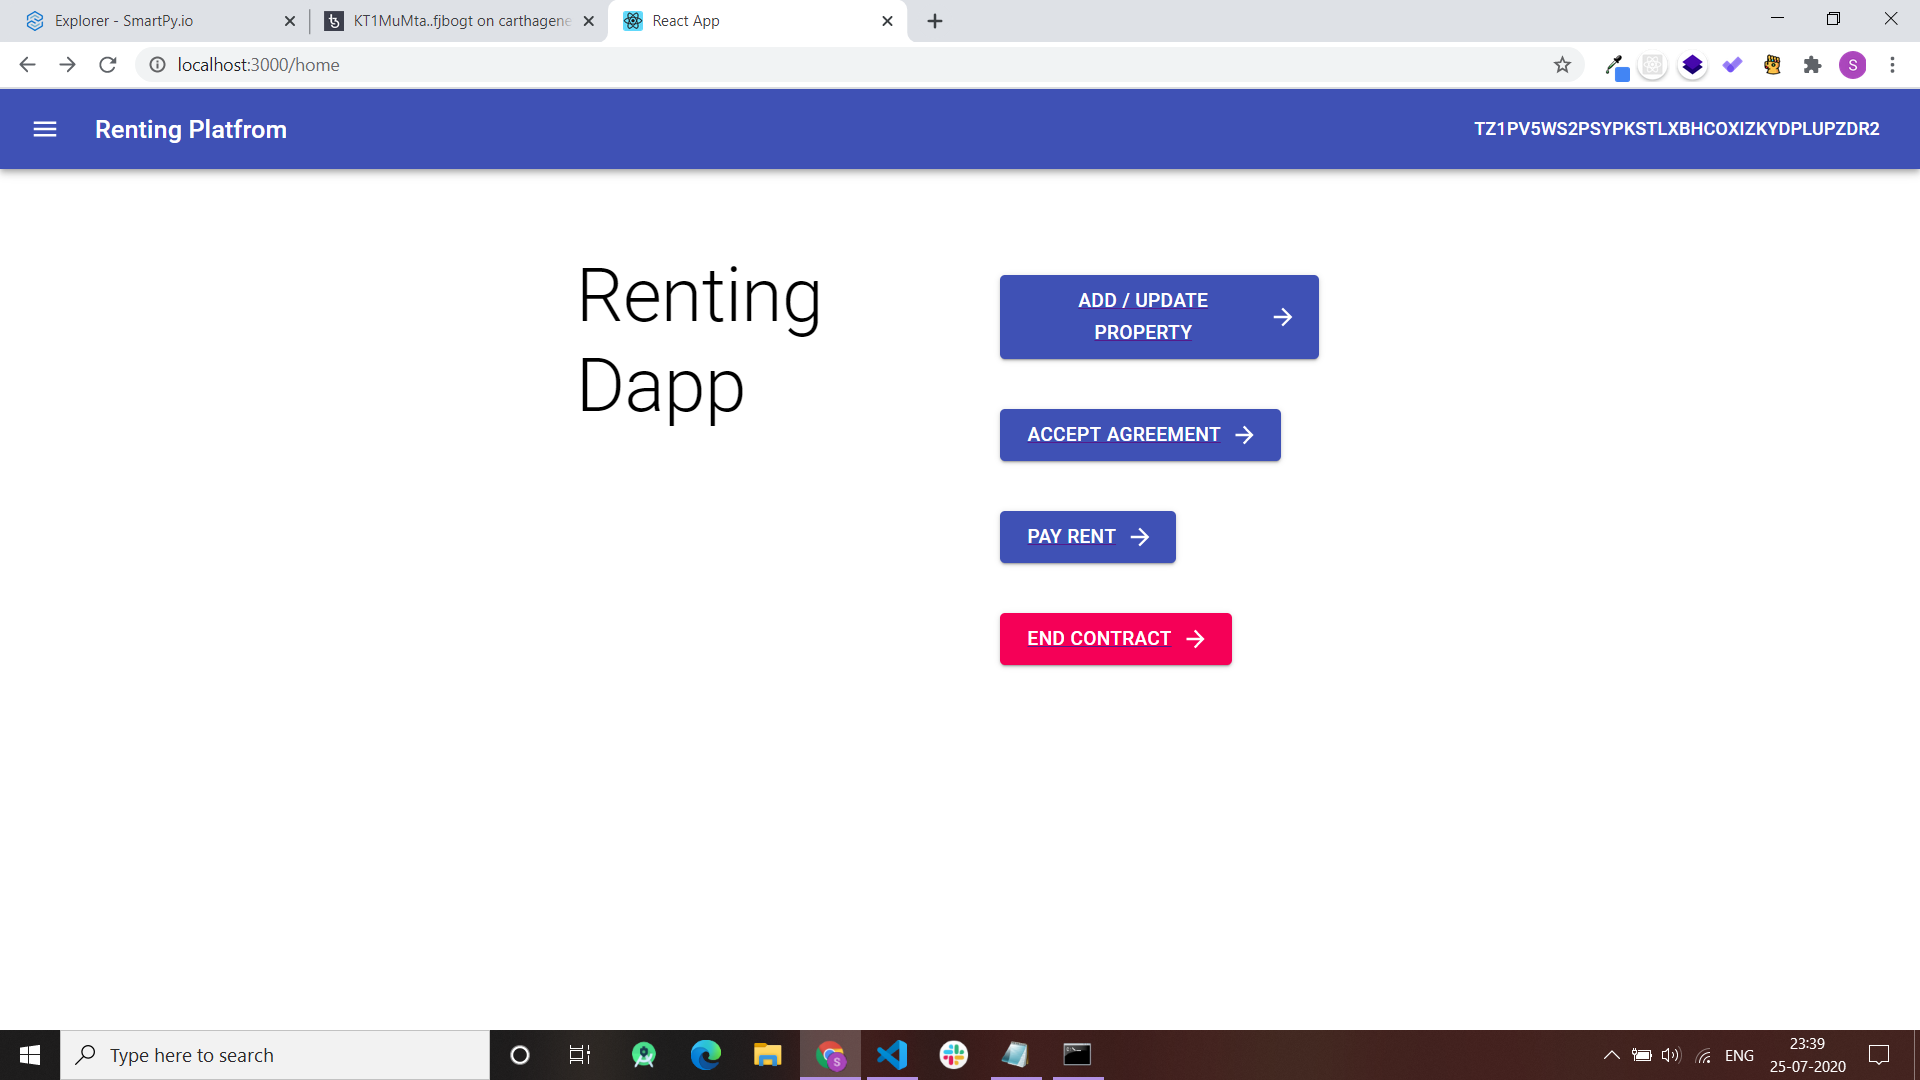
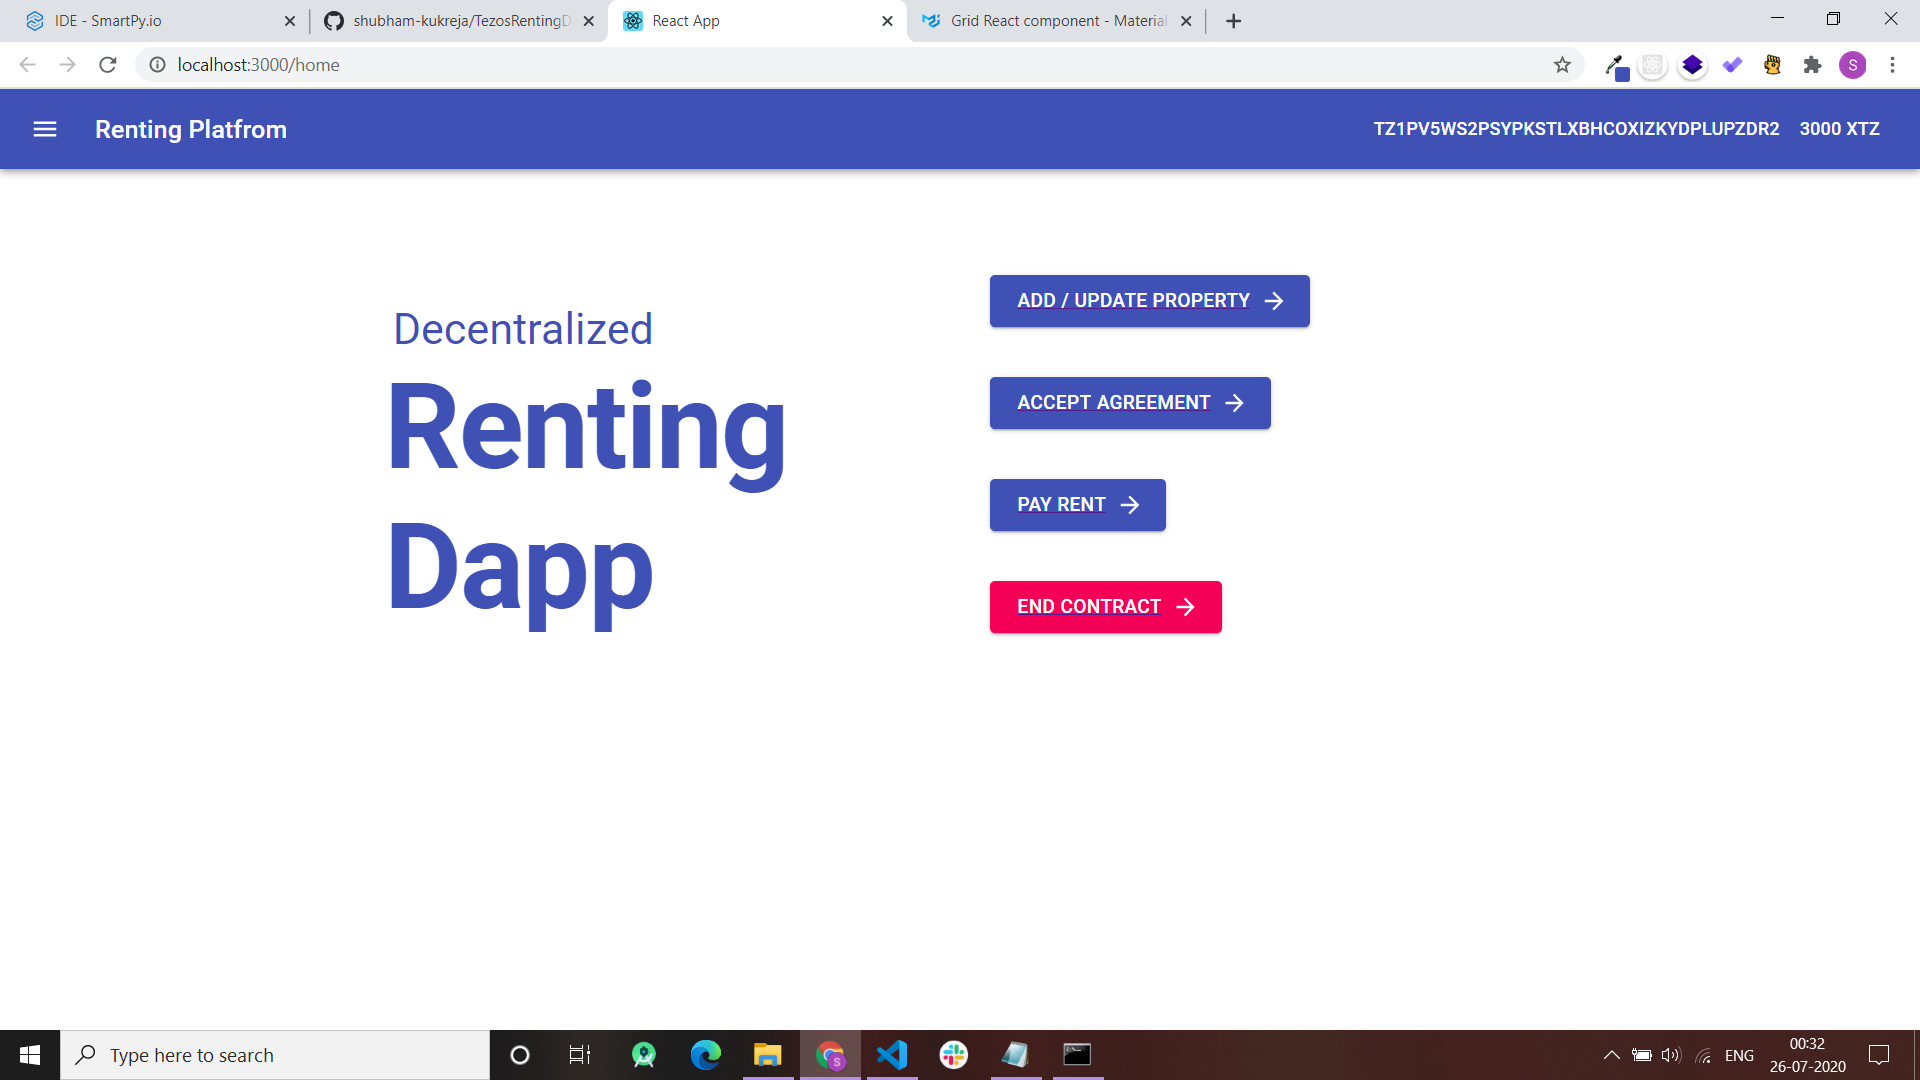
ScreenshotUpdated

diff --git a/src/pages/HomeScreen.jsx b/src/pages/HomeScreen.jsx
@@ -8,7 +8,7 @@ import ArrowForwardIcon from "@material-ui/icons/ArrowForward";
 const useStyles = makeStyles((theme) => ({
   root: {
     flexGrow: 1,
-    margin: "0 30%",
+    padding: "0 20%",
   },
   paper: {
     padding: theme.spacing(2),
@@ -25,11 +25,21 @@ export default function HomeScreen() {
 
   return (
     <div className={classes.root}>
-      <Grid container spacing={3}>
-        <Grid item xs={12} sm={6}>
-          <Typography variant="h2">Renting Dapp</Typography>
+      <Grid container spacing={1}>
+        <Grid item xs={10} sm={6} style={{ color: "#3f51b5" }}>
+          <br />
+          <br />
+          <Typography variant="h4" style={{ marginLeft: 7 }}>
+            Decentralized{" "}
+          </Typography>
+          <Typography variant="h1" style={{ fontWeight: 800 }}>
+            Renting{" "}
+          </Typography>
+          <Typography variant="h1" style={{ fontWeight: 700 }}>
+            Dapp
+          </Typography>
         </Grid>
-        <Grid item xs={12} sm={6}>
+        <Grid item xs={5} sm={6}>
           <Link to="rentout">
             <Button
               variant="contained"

diff --git a/src/App.js b/src/App.js
@@ -1,10 +1,9 @@
-import React, { useEffect, Component } from "react";
+import React, { Component } from "react";
 import "./App.css";
 import ButtonAppBar from "./components/AppBar.jsx";
 import Router from "./Router";
 import getThanos from "./util/thanos";
 import { contractAddress } from "./constants/contract";
-import { Button } from "@material-ui/core";
 
 class App extends Component {
   state = {
@@ -21,7 +20,8 @@ class App extends Component {
       const instance = await tezos.wallet.at(contractAddress);
       this.setState({
         address: accountPkh,
-        instance : instance,
+        balance: parseInt(accountBalance) / 1000000,
+        instance: instance,
       });
     } catch (err) {
       console.log(err);
@@ -31,7 +31,10 @@ class App extends Component {
   render() {
     return (
       <div className="App">
-        <ButtonAppBar accountAddress={this.state.address} />
+        <ButtonAppBar
+          accountAddress={this.state.address}
+          accountBalance={this.state.balance}
+        />
         <br />
         <br />
         <br />

diff --git a/src/components/AppBar.jsx b/src/components/AppBar.jsx
@@ -38,6 +38,7 @@ export default function ButtonAppBar(props) {
             Renting Platfrom
           </Typography>
           <Button color="inherit">{props.accountAddress}</Button>
+          <Button color="inherit">{props.accountBalance} XTZ</Button>
         </Toolbar>
       </AppBar>
     </div>
